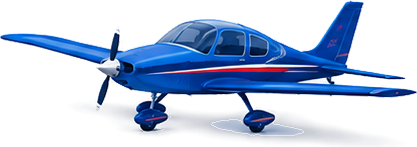
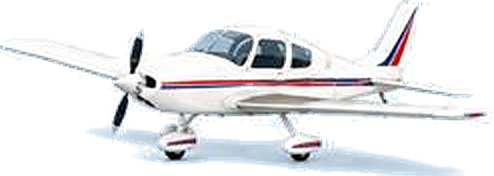
feat(VA-149): dibujos blancos con la línea roja y azul en "Explorá por tipo de aeronave"
Los 7 dibujos nuevos del socio (assets/aircraft-types-blancos/) reemplazan
a los azules con los mismos nombres; width/height de cada uno según el
tamaño real (cambió la proporción). Revisado a 375 y 1280 px.

diff --git a/components/ui/AircraftTypesSection.tsx b/components/ui/AircraftTypesSection.tsx
@@ -11,50 +11,50 @@ const TYPES = [
   {
     name: "Monomotor",
     image: "monomotor",
-    width: 402,
-    height: 158,
+    width: 484,
+    height: 196,
     categories: ["MP", "MT"],
   },
   {
     name: "Bimotor",
     image: "bimotor",
-    width: 386,
-    height: 166,
+    width: 484,
+    height: 212,
     categories: ["BP", "BT"],
   },
   {
     name: "Experimental / LSA",
     image: "avion-ligero",
-    width: 417,
-    height: 147,
+    width: 494,
+    height: 176,
     categories: ["E"],
   },
   {
     name: "Agrícola",
     image: "agricola",
-    width: 396,
-    height: 147,
+    width: 496,
+    height: 180,
     categories: ["A"],
   },
   {
     name: "Helicóptero",
     image: "helicoptero",
-    width: 372,
-    height: 171,
+    width: 502,
+    height: 224,
     categories: ["H"],
   },
   {
     name: "Proyecto",
     image: "proyecto",
-    width: 308,
-    height: 146,
+    width: 486,
+    height: 238,
     categories: ["PR"],
   },
   {
     name: "Otros",
     image: "otros",
-    width: 435,
-    height: 162,
+    width: 494,
+    height: 188,
     categories: ["S/C"],
     // Ajustado (10/10): los turbohélices tienen categoría propia (MT y BT).
   },
